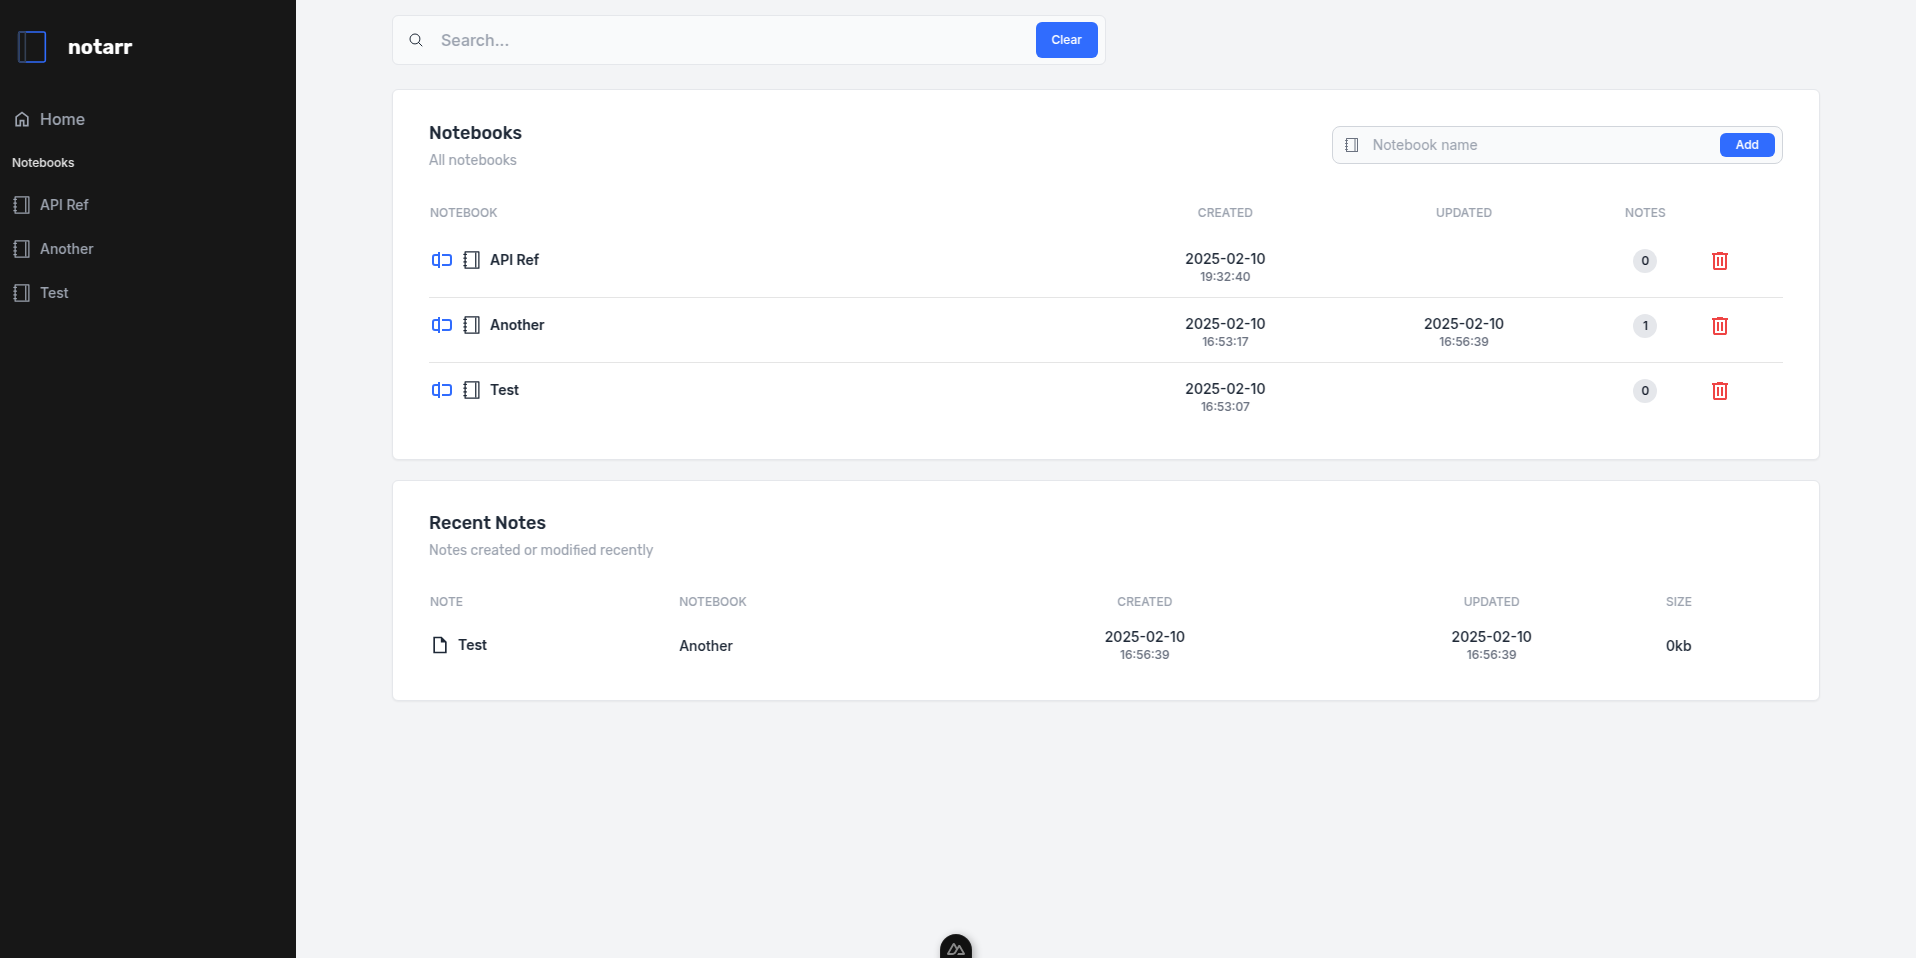
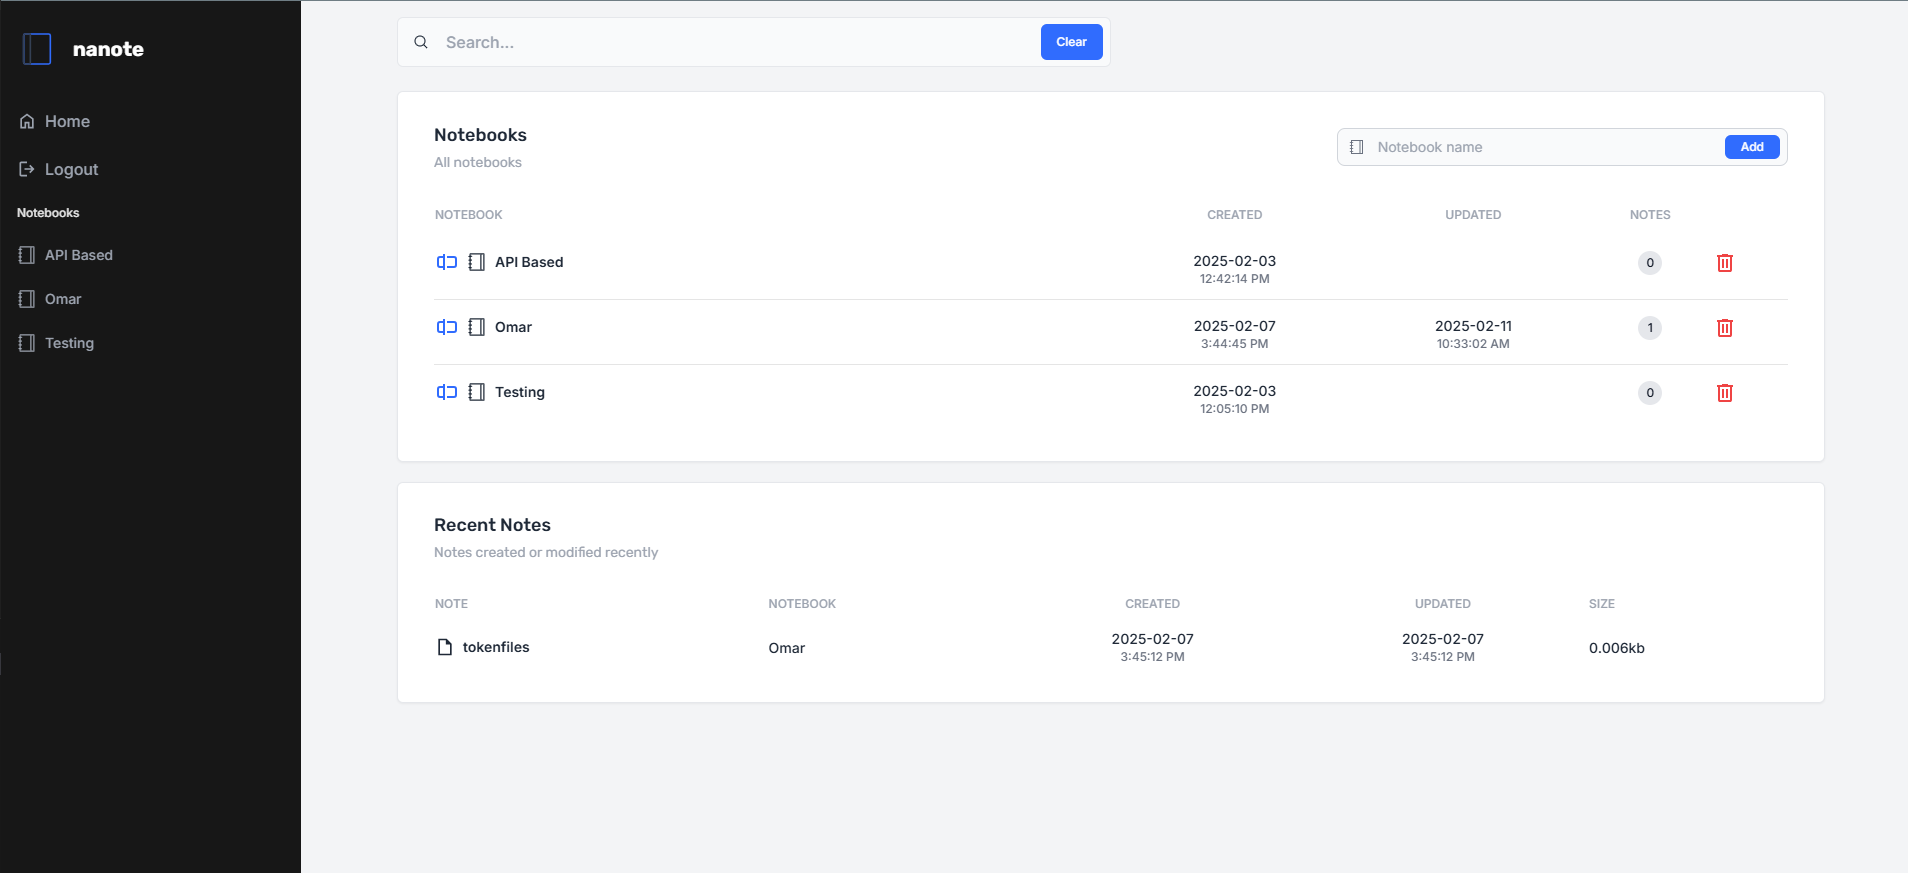
Change app name

diff --git a/pages/login.vue b/pages/login.vue
@@ -12,7 +12,7 @@
               d="M10.417 6.25h6.25v37.5h-6.25a2.083 2.083 0 0 1-2.084-2.083V8.333a2.083 2.083 0 0 1 2.084-2.083" />
           </g>
         </svg>
-        <h1 class="text-xl font-bold text-gray-900">notarr</h1>
+        <h1 class="text-xl font-bold text-gray-900">nanote</h1>
       </div>
       <label class="text-sm font-medium">Secret Key</label>
       <div class="relative">

diff --git a/components/SlidingSidebar.vue b/components/SlidingSidebar.vue
@@ -19,7 +19,7 @@
                   d="M10.417 6.25h6.25v37.5h-6.25a2.083 2.083 0 0 1-2.084-2.083V8.333a2.083 2.083 0 0 1 2.084-2.083" />
               </g>
             </svg>
-            <h1 class="text-xl font-bold text-white">notarr</h1>
+            <h1 class="text-xl font-bold text-white">nanote</h1>
           </div>
         </NuxtLink>
         <!--logo end-->

diff --git a/server/api/auth/login.post.ts b/server/api/auth/login.post.ts
@@ -15,7 +15,7 @@ export default defineEventHandler(async (event) => {
   }
 
   // Create JWT token
-  const token = jwt.sign({ app: 'notarr' }, SECRET_KEY, { expiresIn: '7d' })
+  const token = jwt.sign({ app: 'nanote' }, SECRET_KEY, { expiresIn: '7d' })
 
   setCookie(event, 'token', token, {
     httpOnly: true,

diff --git a/stores/notebooks.ts b/stores/notebooks.ts
@@ -1,5 +1,5 @@
 import { defineStore } from 'pinia'
-import type { DeleteNotebook, Note, Notebook, RenameNotebook } from '~/types/notebook'
+import type { DeleteNotebook, Notebook, RenameNotebook } from '~/types/notebook'
 import type { Result } from '~/types/result'
 import type { FetchError } from 'ofetch'
 

diff --git a/server/key.ts b/server/key.ts
@@ -1,5 +1,5 @@
 const envSecretKey = process.env.SECRET_KEY
 
-const SECRET_KEY = envSecretKey ?? 'notarr'
+const SECRET_KEY = envSecretKey ?? 'nanote'
 
 export default SECRET_KEY

diff --git a/README.md b/README.md
@@ -1,14 +1,14 @@
-# Notarr
+# Nanote
 
 **CONSIDER THIS PRE-ALPHA**: There will be bugs even I am daily driving this for myself.
 
 A lightweight, self-hosted note-taking application with filesystem-based storage. Built with Nuxt 3, TypeScript, and designed for simplicity and performance. The primary goal of this app is to manage your notes in a manner that is 100% portable. You should be able to manage your notes in terminal, notepad or any other app - there is no database, just folders and files.
 
-**Auth** : If you don't set the SECRET_KEY environment variable the default secret key is `notarr` though you should set key
+**Auth** : If you don't set the SECRET_KEY environment variable the default secret key is `nanote` though you should set key
 
 ## Screenshot
 
-![Screenshot](/screenshot.png?raw=true 'Notarr screenshot')
+![Screenshot](/screenshot.png?raw=true 'Nanote screenshot')
 
 ## Features
 
@@ -36,7 +36,7 @@ A lightweight, self-hosted note-taking application with filesystem-based storage
 You can use the following published image with the compose file
 
 ```bash
-omarmir/notarr
+omarmir/nanote
 ```
 
 OR
@@ -44,9 +44,9 @@ OR
 You can clone the repo, build the image and run the compose file.
 
 ```bash
-git clone https://github.com/omarmir/notarr.git
-cd notarr
-docket build -t notarr .
+git clone https://github.com/omarmir/nanote.git
+cd nanote
+docket build -t nanote .
 ```
 
 Edit the compose file (specifically the volumes mount point):
@@ -78,14 +78,14 @@ docker compose -d up
 
 ### Contributing
 
-Right now, the place that needs the most help is the home page, its hard to read so some help there would be appreciated. Open an issue and discuss the issue first. Notarr is distributed under the GNU Affero General Public License.
+Right now, the place that needs the most help is the home page, its hard to read so some help there would be appreciated. Open an issue and discuss the issue first. Nanote is distributed under the GNU Affero General Public License.
 
 ### Local Development
 
 ```bash
 # Clone repository
-git clone https://github.com/omarmir/notarr.git
-cd notarr
+git clone https://github.com/omarmir/nanote.git
+cd nanote
 
 # Install dependencies
 pnpm install
@@ -96,4 +96,4 @@ pnpm run dev
 
 ### API
 
-The notarr server does expose an API and this will be documented better in the future, the app is in VERY early stages so things are still liable to shift. I am now daily driving this for my notes so its not going anywhere and you should expect updates.
+The nanote server does expose an API and this will be documented better in the future, the app is in VERY early stages so things are still liable to shift. I am now daily driving this for my notes so its not going anywhere and you should expect updates.
